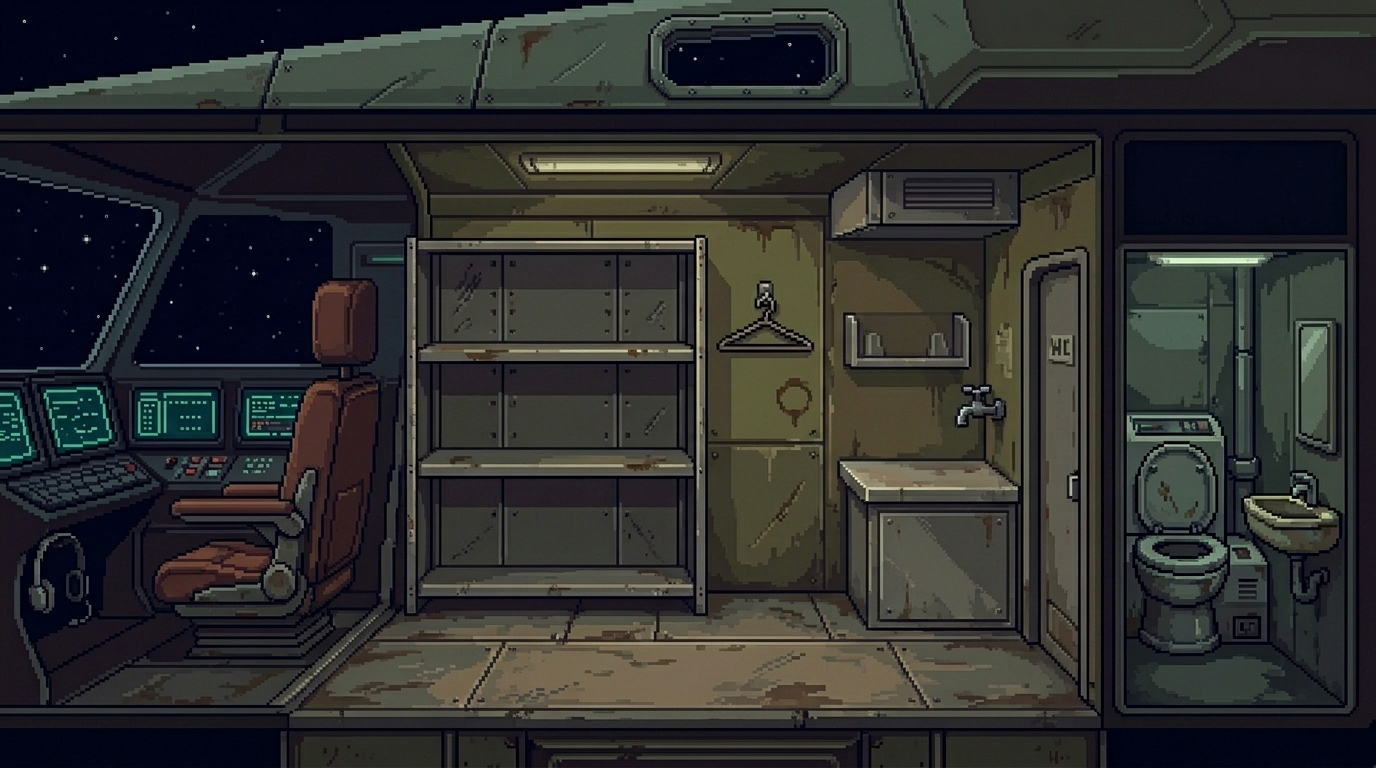
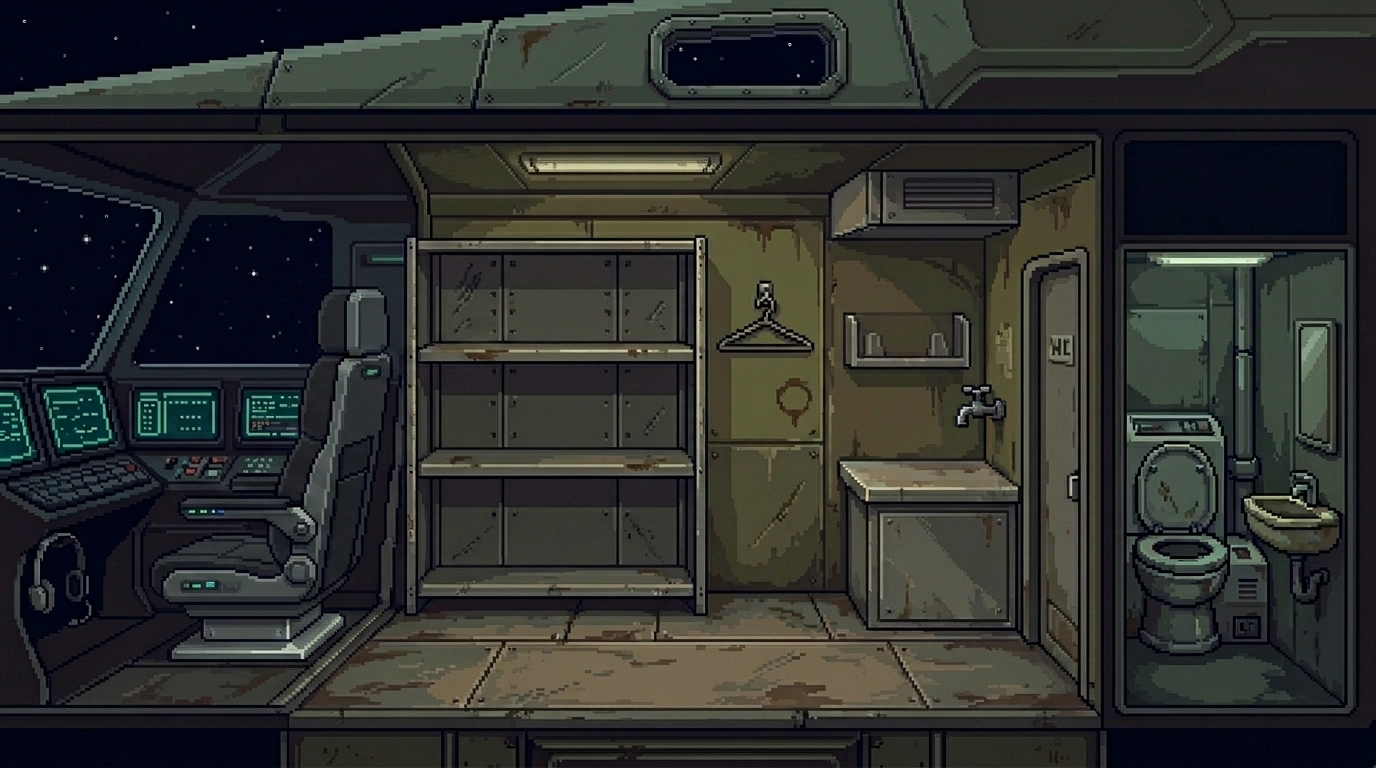
Swap in clearer Pilot Seat upgrade + recompute its mask
The previous seat image barely differed from the base (1.7% of cells).
The new one is a distinct dark command chair (9.8% changed), so the
upgrade is clearly visible in-shop. Recomputed the baked mask to match.

Changed region(s): [[0.0938, 0.3438, 0.2812, 0.875]]

diff --git a/stellar_drift.html b/stellar_drift.html
@@ -2146,7 +2146,7 @@ const COCKPIT_LAYERS = [
 const COCKPIT_MASKS = {
[7 lines of base64/hex data omitted]